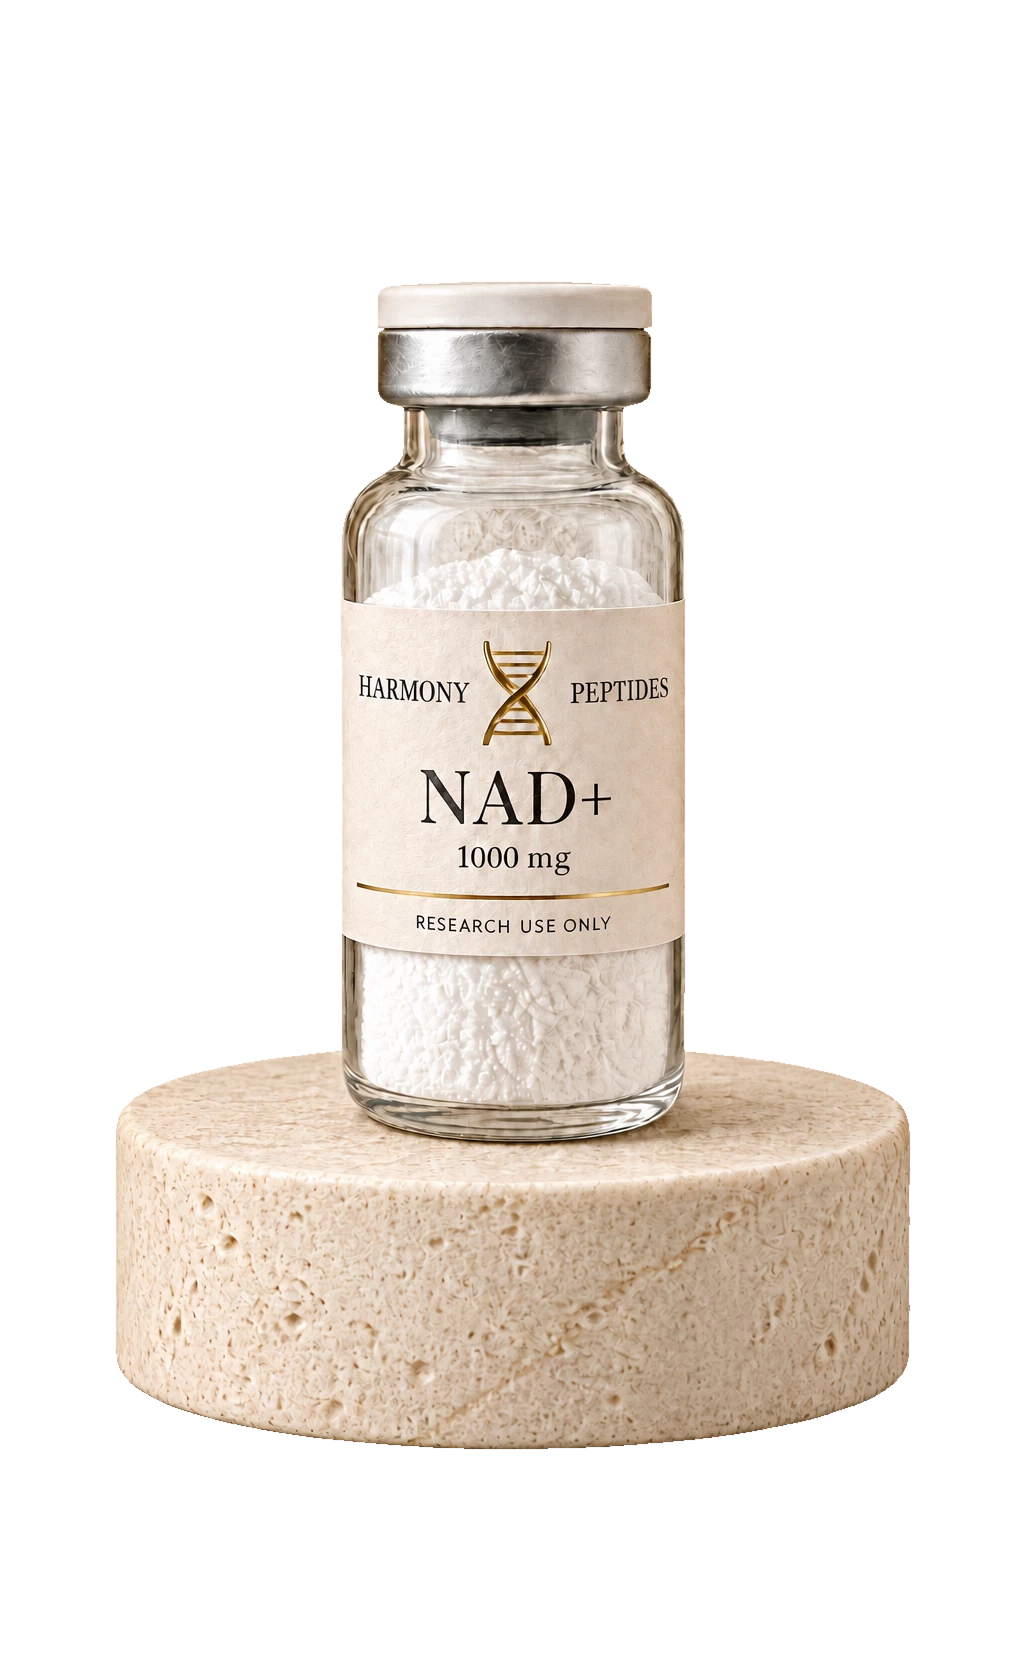
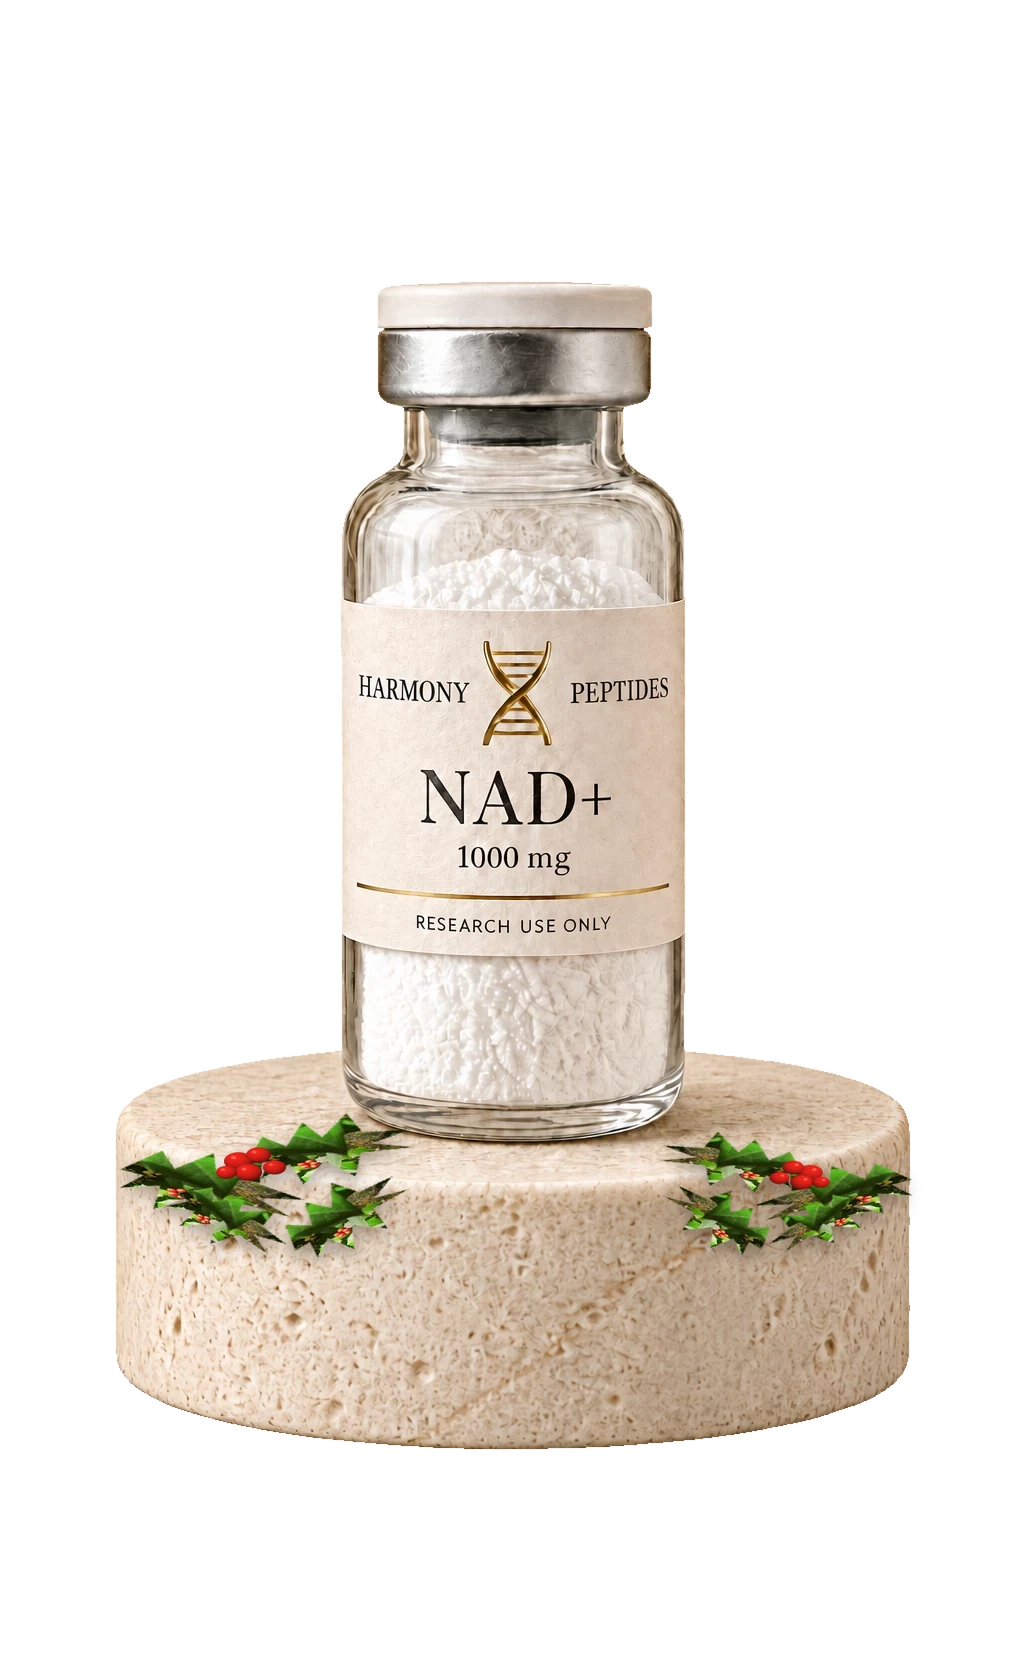
Replace the cartoon holly with sprigs resting on the stone.
The NAD+ label stays clear, and the greenery sits on the limestone around the base of the bottle.

Changed region(s): [[0.125, 0.6775, 0.4062, 0.7699], [0.6562, 0.6775, 0.9062, 0.7699]]

diff --git a/index.html b/index.html
@@ -821,7 +821,7 @@
         overflow: hidden;
       }
       #top > main > section:first-child > figure > img {
-        content: url("/assets/hero-vial-plinth.webp?v=7");
+        content: url("/assets/hero-vial-plinth.webp?v=8");
         object-fit: contain !important;
         object-position: center 60% !important;
         height: auto !important;
@@ -1084,68 +1084,6 @@
 
   <script type="module" src="https://static.cloudflareinsights.com/beacon.min.js/vce701823e78c4301a35b7e07294d87301792088814092" integrity="sha512-UKNk8GbxkABxKcXYuLkO16EleLGUkcvJWtpSNmExE0Too3ZaFAxTscNWEc1OdAv5/BikHawapSCaiD2XCmp+Bw==" data-cf-beacon='{"version":"2024.11.0","token":"2b6da0a410d544b4b84743cdf36f0d7f","r":1,"spa":2}' crossorigin="anonymous"></script>
 
-
-    <style>
-      figure:has(img[src*="hero-vial"]) { position: relative; }
-      .hx-holly {
-        position: absolute;
-        left: 0;
-        right: 0;
-        bottom: 0;
-        height: 32%;
-        pointer-events: none;
-        z-index: 2;
-        filter: drop-shadow(0 8px 10px rgba(26, 24, 20, 0.2));
-      }
-      .hx-holly svg { width: 100%; height: 100%; display: block; }
-    </style>
-    <script>
-      (function () {
-        var holly =
-          '<svg viewBox="0 0 800 240" preserveAspectRatio="xMidYMax meet" aria-hidden="true">' +
-            '<g fill="none">' +
-              '<g transform="translate(18,28)">' +
-                '<path d="M70 150 C40 120 18 150 8 188" stroke="#6E8A55" stroke-width="3" stroke-linecap="round"/>' +
-                '<path d="M18 78 C48 40 92 58 78 98 C108 78 132 112 96 128 C124 150 86 182 62 150 C40 176 8 150 28 118 C4 104 8 62 18 78 Z" fill="#1E4A32"/>' +
-                '<path d="M96 36 C128 8 168 36 150 74 C186 62 206 104 164 118 C190 146 146 176 122 146 C98 172 62 146 86 116 C58 102 64 48 96 36 Z" fill="#245C3C"/>' +
-                '<path d="M150 96 C176 78 206 104 186 132 C208 128 214 158 186 160 C192 184 156 196 146 168 C128 184 108 156 128 136 C112 118 128 96 150 96 Z" fill="#1B4330"/>' +
-                '<circle cx="58" cy="108" r="9" fill="#8E2A28"/>' +
-                '<circle cx="74" cy="122" r="7.5" fill="#A33B34"/>' +
-                '<circle cx="132" cy="108" r="8" fill="#9A332E"/>' +
-                '<circle cx="62" cy="104" r="2.2" fill="#F3D2CC"/>' +
-              '</g>' +
-              '<g transform="translate(782,36) scale(-1,1)">' +
-                '<path d="M70 168 C36 140 16 168 10 198" stroke="#6E8A55" stroke-width="3" stroke-linecap="round"/>' +
-                '<path d="M24 92 C52 58 92 74 80 110 C112 92 128 124 98 140 C122 164 84 190 64 160 C42 182 12 160 30 132 C8 118 10 78 24 92 Z" fill="#1E4A32"/>' +
-                '<path d="M108 48 C140 22 176 52 158 86 C188 76 204 112 168 124 C190 150 152 176 130 148 C108 170 78 148 98 122 C74 108 78 58 108 48 Z" fill="#245C3C"/>' +
-                '<circle cx="70" cy="124" r="8" fill="#8E2A28"/>' +
-                '<circle cx="86" cy="136" r="6.5" fill="#A33B34"/>' +
-                '<circle cx="66" cy="120" r="2" fill="#F3D2CC"/>' +
-              '</g>' +
-              '<g transform="translate(318,168)">' +
-                '<path d="M82 28 C70 8 48 8 36 26 C22 10 2 16 6 36 C-8 42 0 64 18 62 C14 80 36 86 48 70 C60 88 84 80 78 62 C98 60 100 38 84 34 C92 18 86 8 82 28 Z" fill="#C6A15A"/>' +
-                '<path d="M46 36 C40 48 34 44 36 34" stroke="#8A6A2E" stroke-width="1.4"/>' +
-                '<path d="M20 58 C4 78 -6 92 8 96" stroke="#B08A3E" stroke-width="5" stroke-linecap="round"/>' +
-                '<path d="M74 58 C96 76 112 90 98 98" stroke="#B08A3E" stroke-width="5" stroke-linecap="round"/>' +
-              '</g>' +
-            '</g>' +
-          '</svg>';
-        function place() {
-          var img = document.querySelector('img[src*="hero-vial"]');
-          if (!img) return;
-          var fig = img.closest("figure") || img.parentElement;
-          if (!fig || fig.querySelector(".hx-holly")) return;
-          var layer = document.createElement("div");
-          layer.className = "hx-holly";
-          layer.setAttribute("aria-hidden", "true");
-          layer.innerHTML = holly;
-          fig.appendChild(layer);
-        }
-        new MutationObserver(place).observe(document.documentElement, { childList: true, subtree: true });
-        if (document.readyState === "loading") document.addEventListener("DOMContentLoaded", place);
-        else place();
-      })();
-    </script>
 
     <style>
       .hx-most-popular-cream {
